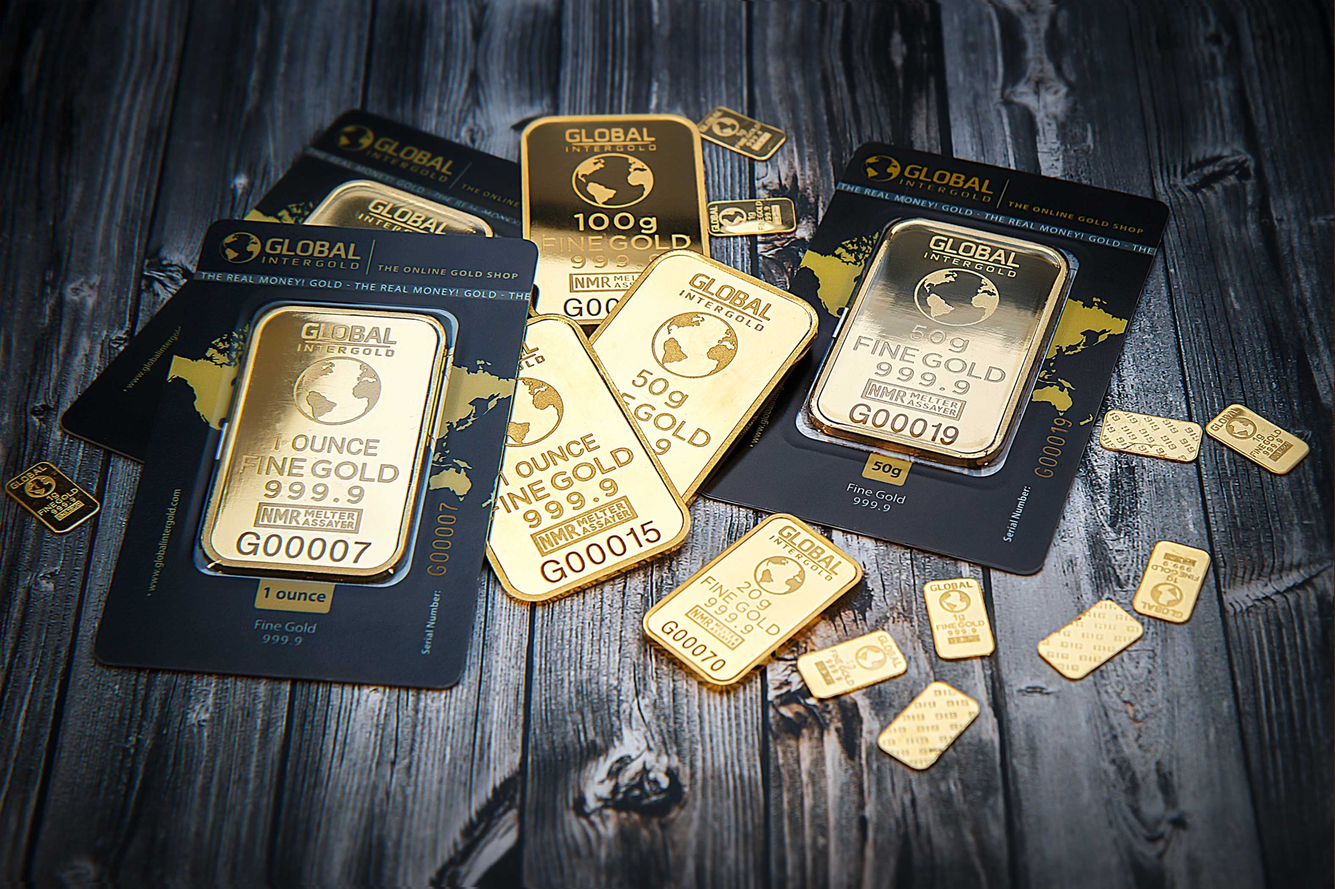
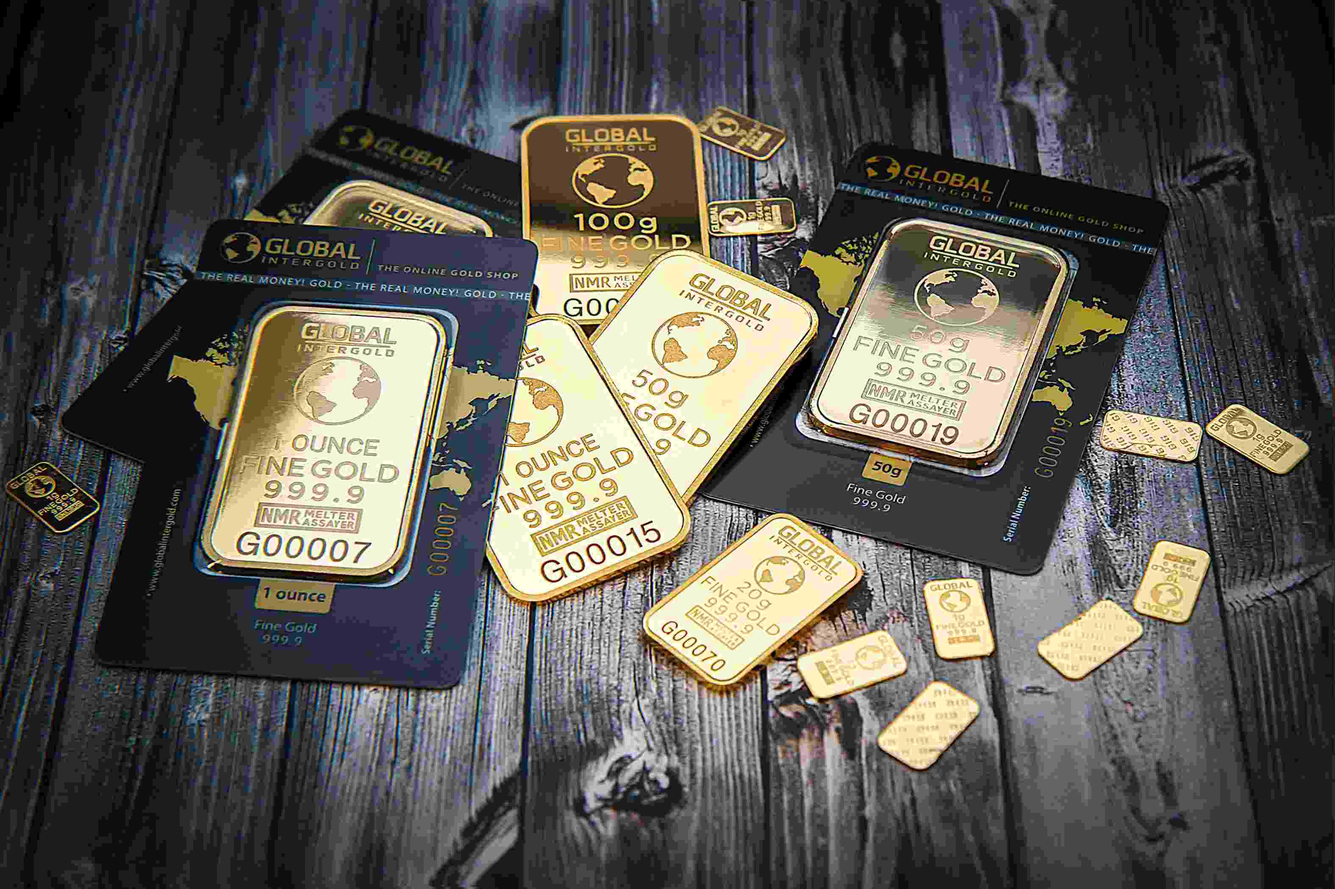
Reduced some assets size to reduce page load

diff --git a/resources/views/includes/footer.blade.php b/resources/views/includes/footer.blade.php
@@ -119,7 +119,7 @@ conveythis.init({source_language_id: 703, languages: [{"id":"703","active":true}
 	<p class="center">Copyright © {{date('Y')}} Global Options FX Trade. All Rights Reserved</p>
     </div>
 </footer>
-<script src="assets/js/particle.js"></script>
+<script src="https://cdnjs.cloudflare.com/ajax/libs/particlesjs/2.0.0/particles.min.js" integrity="sha512-bdhiPAmFMAgAD3/LSwq0uxheog+lTqvyHXOnJMSITlx9VviXDVzkAt4qOaMPuW79TXnNaV2/xHCKUeg9Q6TpMw==" crossorigin="anonymous" referrerpolicy="no-referrer"></script>
 <script>
 particlesJS("particles-js", {
 	"particles":{ "number":{"value":100,"density":{"enable":true,"value_area":800}},"color":{"value":"#ffffff"},"shape":{"type":"circle","stroke":{"width":0,"color":"#000000"},"polygon":{"nb_sides":5},"image":{"src":"img/github.svg","width":100,"height":100}},"opacity":{"value":0.5,"random":false,"anim":{"enable":false,"speed":1,"opacity_min":0.1,"sync":false}},"size":{"value":3,"random":true,"anim":{"enable":false,"speed":40,"size_min":0.1,"sync":false}},"line_linked":{"enable":true,"distance":150,"color":"#ffffff","opacity":0.4,"width":1},"move":{"enable":true,"speed":6,"direction":"none","random":false,"straight":false,"out_mode":"out","bounce":false,"attract":{"enable":false,"rotateX":600,"rotateY":1200}}},"interactivity":{"detect_on":"canvas","events":{"onhover":{"enable":true,"mode":"repulse"},"onclick":{"enable":true,"mode":"push"},"resize":true},"modes":{"grab":{"distance":400,"line_linked":{"opacity":1}},"bubble":{"distance":400,"size":40,"duration":2,"opacity":8,"speed":3},"repulse":{"distance":200,"duration":0.4},"push":{"particles_nb":4},"remove":{"particles_nb":2}}

diff --git a/resources/views/index.blade.php b/resources/views/index.blade.php
@@ -16,7 +16,7 @@
   <!-- Item -->
   <div class="item">
     <div class="img-fill">
-      <img src="{{ asset('assets/images/912465.jpg') }}" alt="">
+      <img src="{{ asset('assets/images/912465-min.jpg') }}" alt="">
       <div class="info-slick">
         <div>
           <h1 class="headering"><span class="text-default">SECURE</span> AND <span class="text-default">EASY WAY</span><br>TO BITCOIN MINNING</h1>
@@ -29,7 +29,7 @@
   <!-- Item -->
   <div class="item">
     <div class="img-fill">
-      <img src="{{ asset('assets/images/913441.jpg') }}" alt="">
+      <img src="{{ asset('assets/images/913441-min.jpg') }}" alt="">
       <div class="info-slick">
         <div>
           <h1 class="headering"><span class="text-default">BITCOIN</span> INVESTMENT<br>YOU CAN <span class="text-default">TRUST</span></h1>
@@ -582,7 +582,7 @@
 
 
 
-<script src="{{ asset('assets/js/slick/slick.js') }}" type="text/javascript" charset="utf-8"></script>
+<script src="https://cdnjs.cloudflare.com/ajax/libs/slick-carousel/1.6.0/slick.min.js" integrity="sha512-An4a3FEMyR5BbO9CRQQqgsBscxjM7uNNmccUSESNVtWn53EWx5B9oO7RVnPvPG6EcYcYPp0Gv3i/QQ4KUzB5WA==" crossorigin="anonymous" referrerpolicy="no-referrer"></script>
 <script src="{{ asset('assets/js/slick/slick-animation.min.js') }}" type="text/javascript" charset="utf-8"></script>
 <script type="text/javascript">
 	// Init slick slider + animation

diff --git a/resources/views/includes/header.blade.php b/resources/views/includes/header.blade.php
@@ -36,9 +36,9 @@
 <meta name="msapplication-wide310x150logo" content="{{ asset('/assets/images/icon/icon-310x150.png') }}" />
 
 
-<script src="{{ asset('/assets/js/jquery.min.js') }}"></script>
-<script src="{{ asset('/assets/js/jquery-ui.js') }}"></script>
-<script src="{{ asset('/assets/js/jquery.form.js') }}"></script>
+<script src="https://cdnjs.cloudflare.com/ajax/libs/jquery/1.9.0/jquery.min.js" integrity="sha512-synHs+rLg2WDVE9U0oHVJURDCiqft60GcWOW7tXySy8oIr0Hjl3K9gv7Bq/gSj4NDVpc5vmsNkMGGJ6t2VpUMA==" crossorigin="anonymous" referrerpolicy="no-referrer"></script>
+<script src="https://cdnjs.cloudflare.com/ajax/libs/jqueryui/1.12.1/jquery-ui.min.js" integrity="sha512-uto9mlQzrs59VwILcLiRYeLKPPbS/bT71da/OEBYEwcdNUk8jYIy+D176RYoop1Da+f9mvkYrmj5MCLZWEtQuA==" crossorigin="anonymous" referrerpolicy="no-referrer"></script>
+<script src="https://cdnjs.cloudflare.com/ajax/libs/jquery.form/3.50/jquery.form.min.js" integrity="sha512-zsLciaUdJLt5CtNc7c4MO7wa/YHcsHO+MwPGXoZ08Ps8hEAN/YwKqmvzXYv0npytDOJMvYqrt8rN0thncUPOOg==" crossorigin="anonymous" referrerpolicy="no-referrer"></script>
 
 <link href="{{ asset('/assets/css/select2.min.css') }}" rel="stylesheet" />
 
